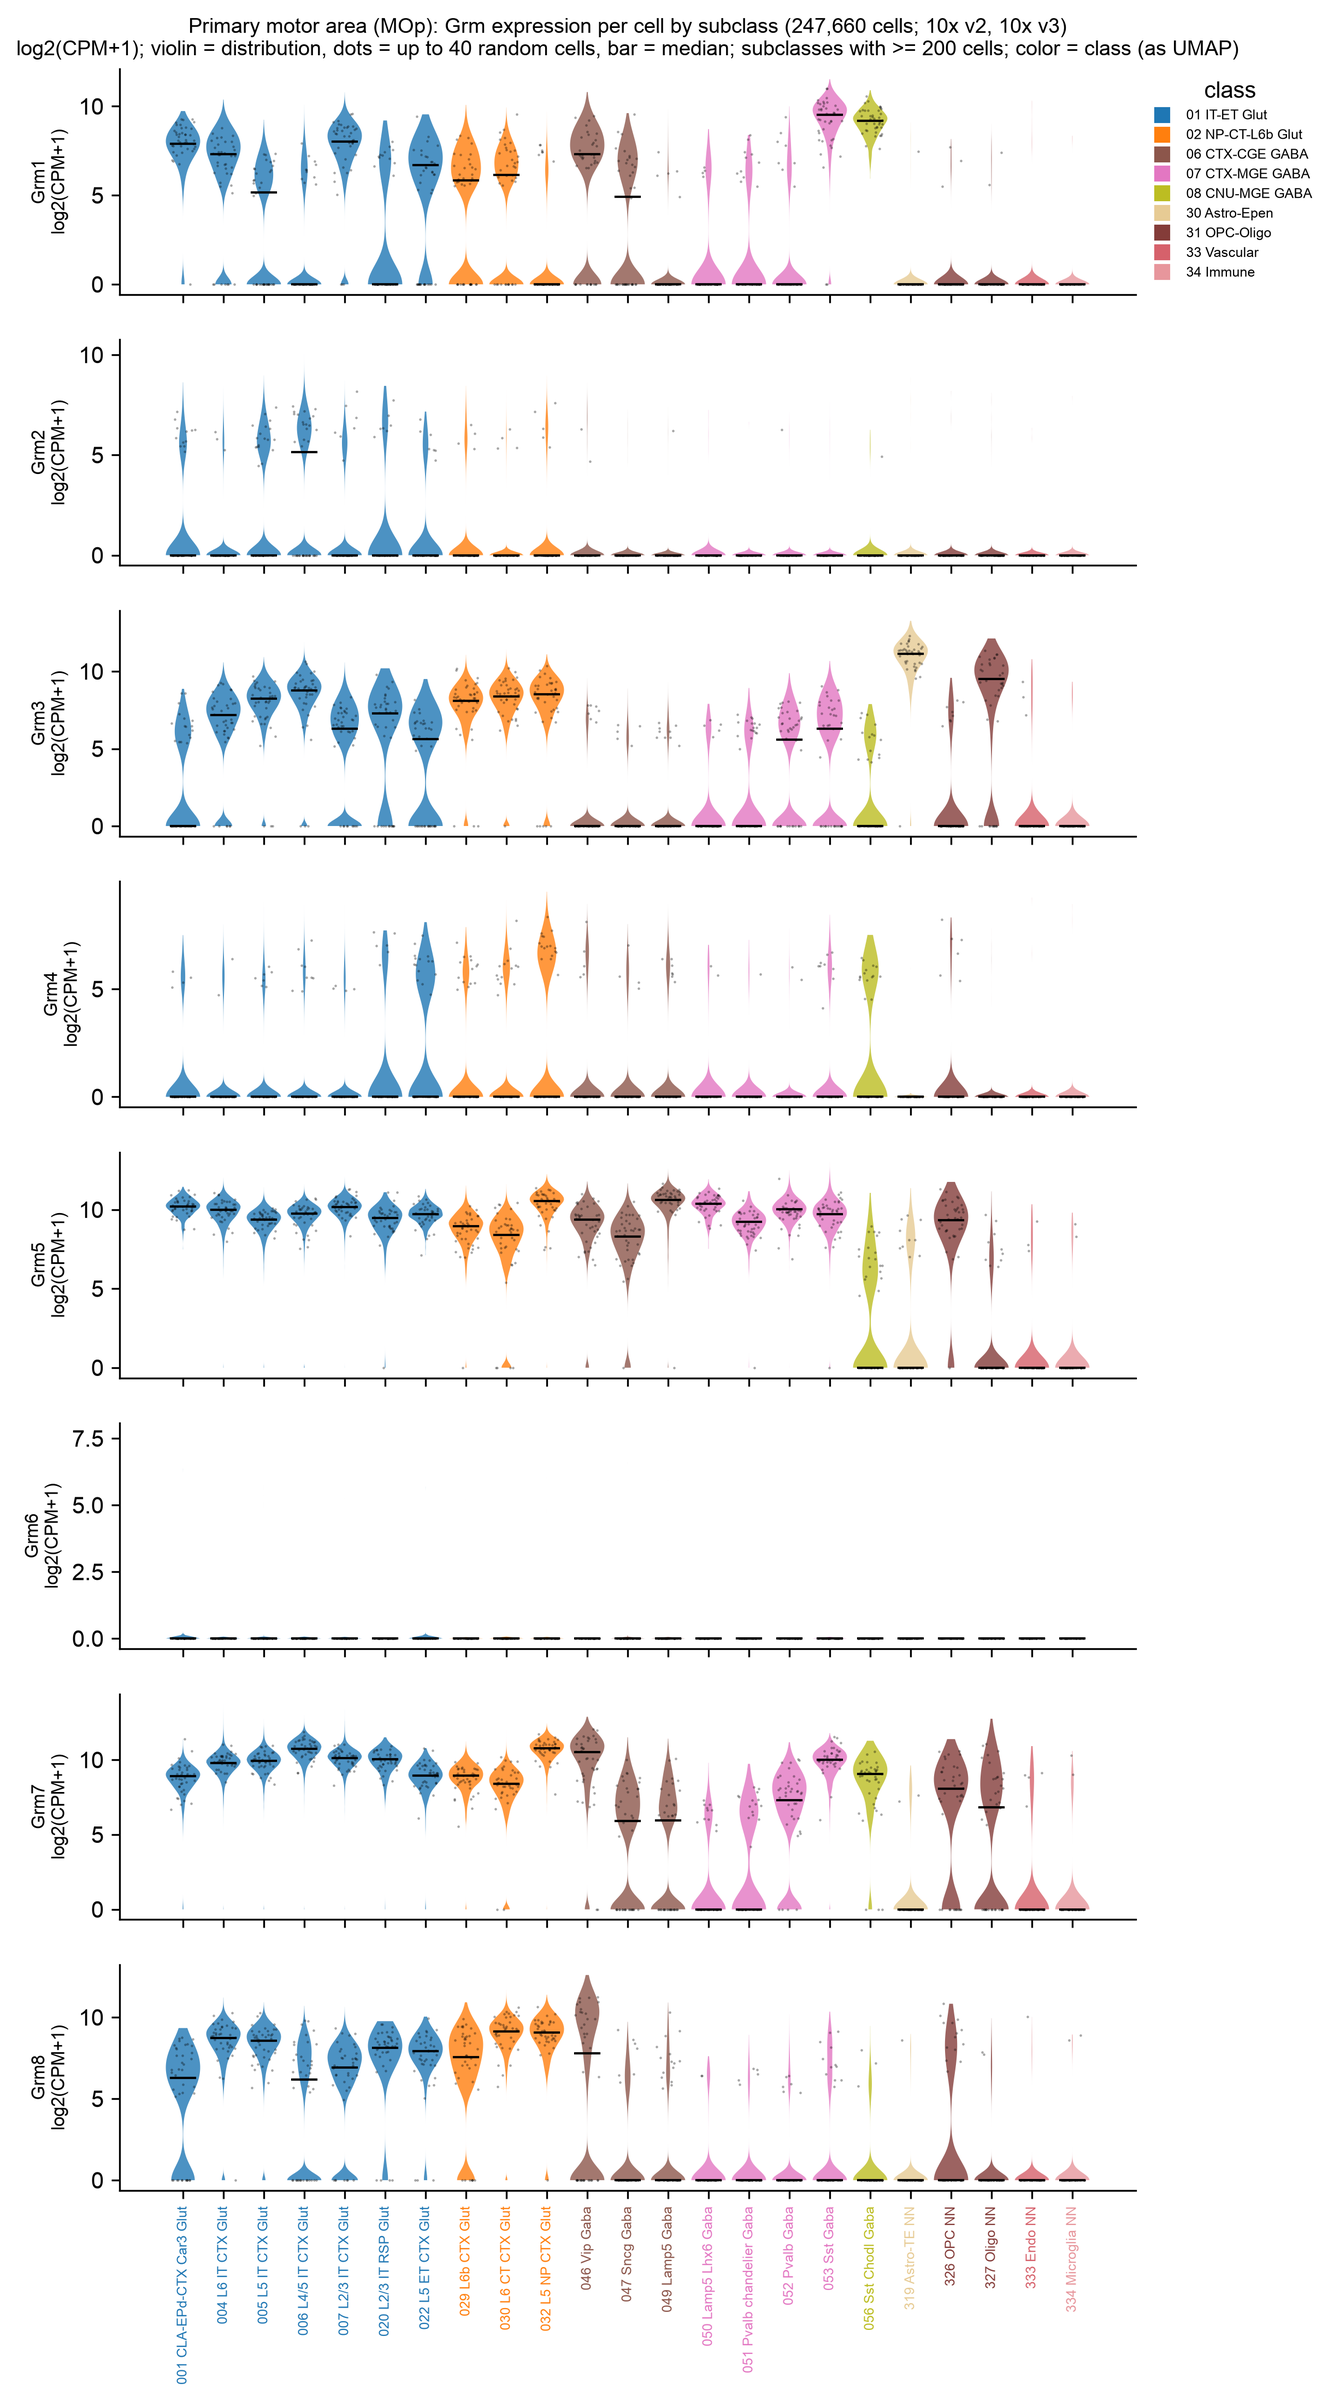
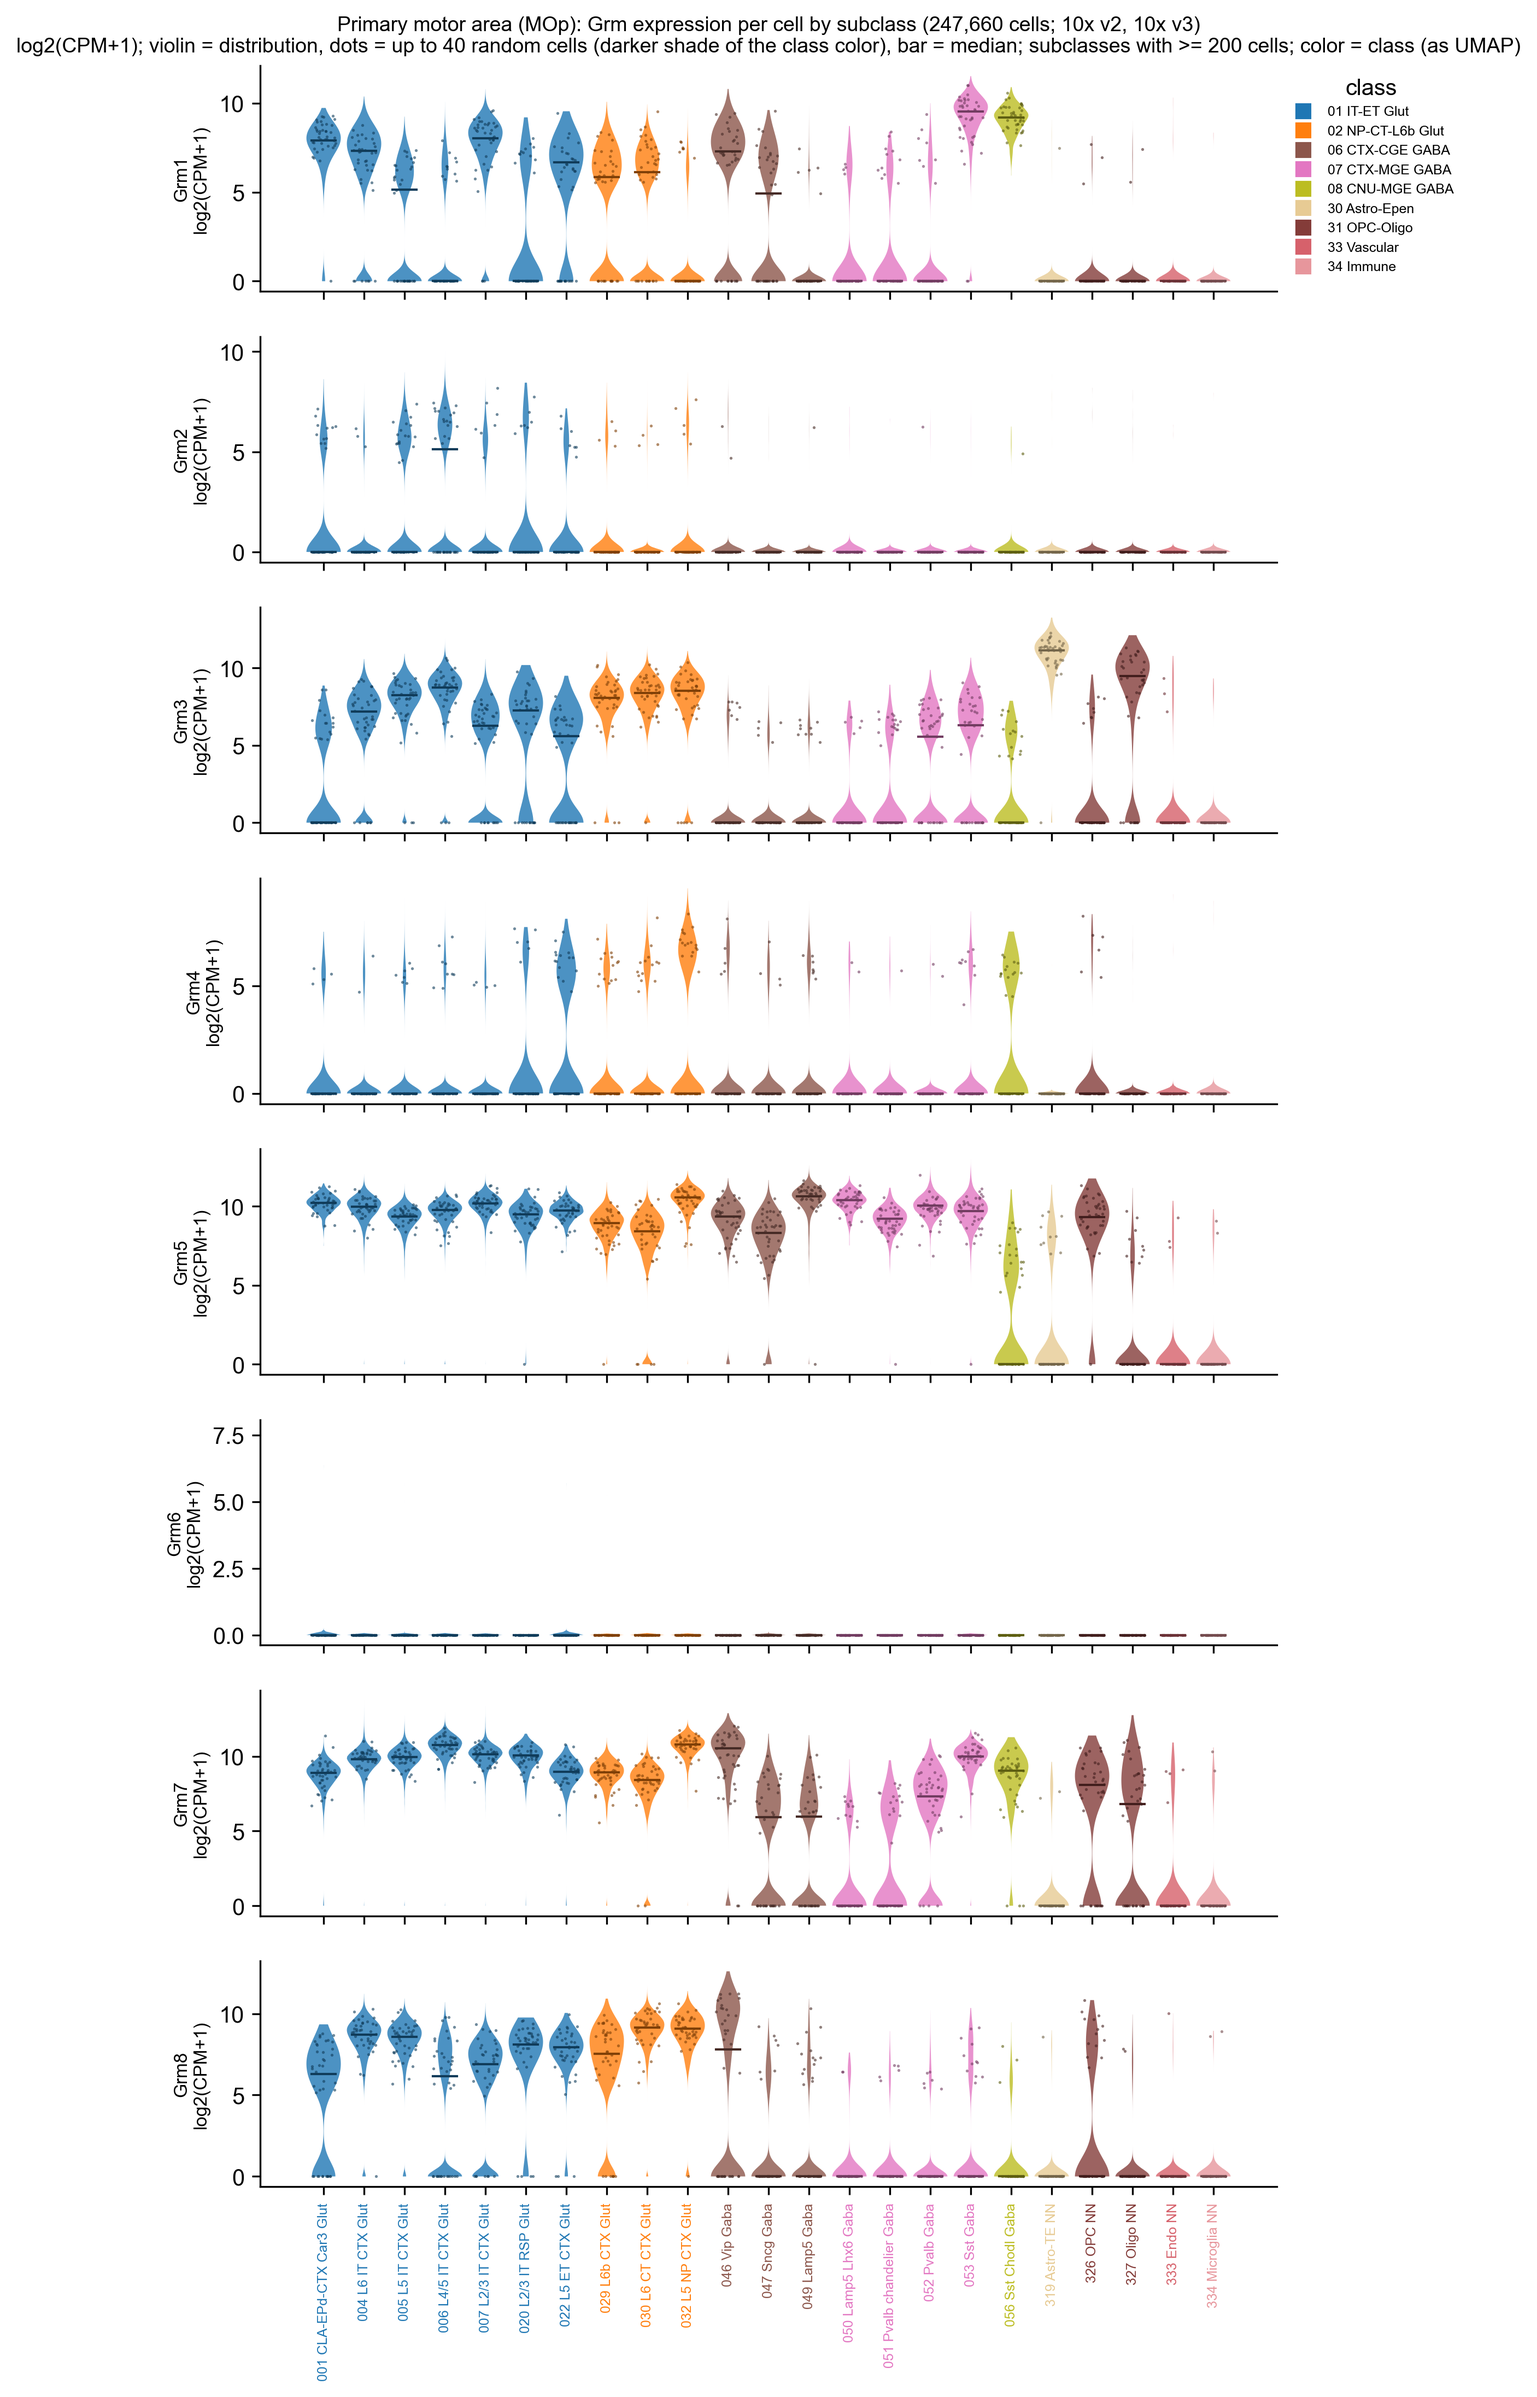
README: heatmap restored, replicate check moved to appendix, detection table, violin dot colors, class-level text
Claude-Session: https://claude.ai/code/session_01KFPffrMSKnZhb77F2SY6Li

diff --git a/README.md b/README.md
@@ -27,32 +27,32 @@ Goal: mGluR (Grm1-8) expression by fine cell type and brain region in public sin
 - Data: Allen ABC Atlas WMB, 4.04M cells, 10x v2/v3/Multiome 3' GEX, log2(CPM+1), 29 dissection regions (ROI)
 - Labels: class > subclass > supertype > cluster (Allen taxonomy). UMAP: Allen `x`,`y` (10 nearest neighbours share subclass 80-99%; shuffled 4-43%)
 - Colors in all figures = class
-- Overall % cells detecting: Grm1 52, Grm2 17, Grm3 60, Grm4 24, Grm5 76, Grm6 0.03, Grm7 77, Grm8 43
 - Enrichment = (mean CPM in subclass + 1) / (mean CPM in other neurons of the same region + 1); one-sided rank-sum, BH q < 0.05
 - Tables: `results/allen_wmb/` (`master_enrichment.csv.gz`: region x chemistry x gene x subclass)
 
-### Whole brain: Grm1-8 per neuronal class
+Overall % of cells detecting each receptor (all 4.04M cells):
+
+| Grm1 | Grm2 | Grm3 | Grm4 | Grm5 | Grm6 | Grm7 | Grm8 |
+|---|---|---|---|---|---|---|---|
+| 52 | 17 | 60 | 24 | 76 | 0.03 | 77 | 43 |
+
+### Whole brain: subclass x Grm (mean log2 CPM)
 
 All data from Allen Brain Atlas single cell processing pipeline, across different 10x datasets
 v2 and v3 are pooled uncorrected, but the chemistry is not a big confound here (see correlation, later in readme)
 
-Violin = all neurons of a class; dots = subclass means. Heatmap version (subclass x Grm): `figures/allen_wmb/ALL_fig4_heatmap_subclass_grm.png`.
+Top 5 subclasses per class by Grm expression; all subclasses: `figures/allen_wmb/ALL_fig4_heatmap_all_subclasses_full.png`.
+
+<img src="figures/allen_wmb/ALL_fig4_heatmap_subclass_grm.png" width="900">
+
+### Whole brain: Grm1-8 per neuronal class
+
+The atlas has neuronal classes 01–29; each holds many subclasses (~340 total), and thousands of clusters
+Below, are the vln plots showing Grm expression at the toplevel (neuronal classes)
+
+Violin = distribution of per-cell log2(CPM+1) for one Grm across all neurons of a class; dots = subclass means (subclasses with >= 100 cells), darker shade of the class color.
 
 <img src="figures/allen_wmb/ALL_wb_violin_scatter.png" width="900">
-
-### Replicate check: 10x v2 vs v3
-
-Per region x subclass, log2 enrichment in v2 cells vs v3 cells (only subclasses with enough cells in both).
-
-<img src="figures/allen_wmb/ALL_fig5_v2_v3_concordance.png" width="860">
-
-| Grm1 | Grm2 | Grm3 | Grm4 | Grm5 | **Grm6 ⚠** | Grm7 | Grm8 |
-|---|---|---|---|---|---|---|---|
-| 0.97 | 0.96 | 0.97 | 0.94 | 0.95 | **0.38** | 0.95 | 0.97 |
-
-Spearman rho by gene.
-
-**Grm6 does not replicate (rho = 0.38).** Grm6 is detected in only about 0.03% of brain cells (it is a retina-restricted receptor), so its per-subclass fold changes are driven by a handful of cells and background counts rather than real expression, while the other receptors are expressed in many cells and give stable estimates.
 
 ### Example region: hippocampus
 
@@ -90,6 +90,20 @@ For clusters identified in the previous plot as enriched for both Grm2 and 4, ex
 ## Appendix: other regions
 
 Prioritized (depression / Parkinson's) regions first, then the rest alphabetically.
+
+### Replicate check: 10x v2 vs v3
+
+Per region x subclass, log2 enrichment in v2 cells vs v3 cells (only subclasses with enough cells in both).
+
+<img src="figures/allen_wmb/ALL_fig5_v2_v3_concordance.png" width="860">
+
+| Grm1 | Grm2 | Grm3 | Grm4 | Grm5 | **Grm6 ⚠** | Grm7 | Grm8 |
+|---|---|---|---|---|---|---|---|
+| 0.97 | 0.96 | 0.97 | 0.94 | 0.95 | **0.38** | 0.95 | 0.97 |
+
+Spearman rho by gene.
+
+**Grm6 does not replicate (rho = 0.38).** Grm6 is detected in only about 0.03% of brain cells (it is a retina-restricted receptor), so its per-subclass fold changes are driven by a handful of cells and background counts rather than real expression, while the other receptors are expressed in many cells and give stable estimates.
 
 ### Prelimbic/infralimbic/orbital areas  (PL-ILA-ORB)
 
